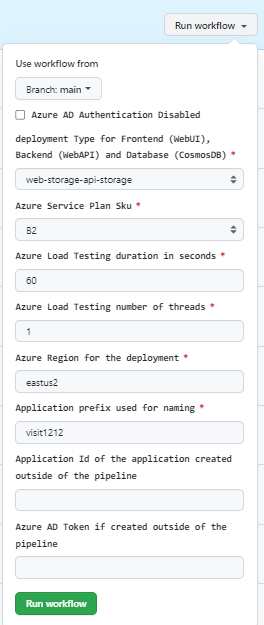
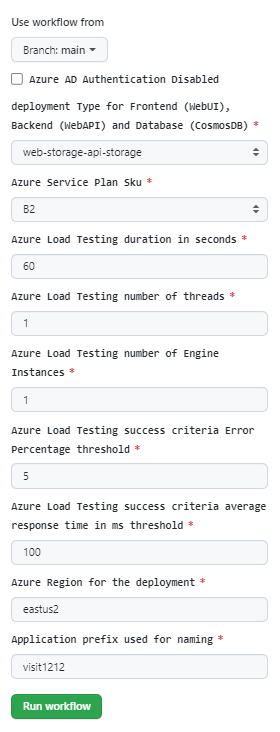
Add latest update

diff --git a/src/ts-web-app/html/index.html b/src/ts-web-app/html/index.html
@@ -12,10 +12,15 @@
   <link href="https://cdn.jsdelivr.net/npm/bootstrap@5.0.2/dist/css/bootstrap.min.css" rel="stylesheet" integrity="sha384-EVSTQN3/azprG1Anm3QDgpJLIm9Nao0Yz1ztcQTwFspd3yD65VohhpuuCOmLASjC" crossorigin="anonymous">    
   <link rel="stylesheet" href="https://cdn.jsdelivr.net/npm/bootstrap@4.0.0/dist/css/bootstrap.min.css" integrity="sha384-Gn5384xqQ1aoWXA+058RXPxPg6fy4IWvTNh0E263XmFcJlSAwiGgFAW/dAiS6JXm" crossorigin="anonymous">
 -->  
+<!--
   <link rel="stylesheet" href="https://cdn.jsdelivr.net/npm/bootstrap@4.6.1/dist/css/bootstrap.min.css">    
   <link rel="stylesheet" href="https://unpkg.com/jquery-resizable-columns@0.2.3/dist/jquery.resizableColumns.css">
   <link href="https://unpkg.com/bootstrap-table@1.19.1/dist/bootstrap-table.min.css" rel="stylesheet">
-  
+-->  
+<link rel="stylesheet" href="https://cdn.jsdelivr.net/npm/bootstrap@5.2.0/dist/css/bootstrap.min.css">    
+<link rel="stylesheet" href="https://unpkg.com/jquery-resizable-columns@0.2.3/dist/jquery.resizableColumns.css">
+<link href="https://unpkg.com/bootstrap-table@1.21.0/dist/bootstrap-table.min.css" rel="stylesheet">
+
   <link rel="stylesheet" href="dist/css/font-awesome.min.css">
   <link href="navmanager.css" rel="stylesheet"/>
   <link href="index.css" rel="stylesheet"/>
@@ -58,9 +63,14 @@
 </footer>  
 
 <script src="https://cdn.jsdelivr.net/npm/jquery@3.5.1/dist/jquery.slim.min.js" integrity="sha384-DfXdz2htPH0lsSSs5nCTpuj/zy4C+OGpamoFVy38MVBnE+IbbVYUew+OrCXaRkfj" crossorigin="anonymous"></script>
+<!--
 <script src="https://cdn.jsdelivr.net/npm/popper.js@1.16.1/dist/umd/popper.min.js" integrity="sha384-9/reFTGAW83EW2RDu2S0VKaIzap3H66lZH81PoYlFhbGU+6BZp6G7niu735Sk7lN" crossorigin="anonymous"></script>
 <script src="https://cdn.jsdelivr.net/npm/bootstrap@4.6.1/dist/js/bootstrap.min.js" integrity="sha384-VHvPCCyXqtD5DqJeNxl2dtTyhF78xXNXdkwX1CZeRusQfRKp+tA7hAShOK/B/fQ2" crossorigin="anonymous"></script>
 <script src="https://unpkg.com/bootstrap-table@1.19.1/dist/bootstrap-table.min.js"></script>
+-->
+<script src="https://cdn.jsdelivr.net/npm/@popperjs/core@2.11.5/dist/umd/popper.min.js" integrity="sha384-Xe+8cL9oJa6tN/veChSP7q+mnSPaj5Bcu9mPX5F5xIGE0DVittaqT5lorf0EI7Vk" crossorigin="anonymous"></script>
+<script src="https://cdn.jsdelivr.net/npm/bootstrap@5.2.0/dist/js/bootstrap.min.js" integrity="sha384-ODmDIVzN+pFdexxHEHFBQH3/9/vQ9uori45z4JjnFsRydbmQbmL5t1tQ0culUzyK" crossorigin="anonymous"></script>
+<script src="https://unpkg.com/bootstrap-table@1.21.0/dist/bootstrap-table.min.js"></script>
 
 <!-- Bootstrap table localization strings -->
 <script src="dist/js/bootstrap-table-en-US.min.js"></script>
@@ -70,8 +80,11 @@
 <script src="dist/js/bootstrap-table-it-IT.min.js"></script>
 <script src="dist/js/bootstrap-table-es-SP.min.js"></script>
 
-
+<!--
 <script src="https://unpkg.com/bootstrap-table@1.19.1/dist/extensions/resizable/bootstrap-table-resizable.min.js"></script>
+-->
+<script src="https://unpkg.com/bootstrap-table@1.21.0/dist/extensions/resizable/bootstrap-table-resizable.min.js"></script>
+
 <script src="https://unpkg.com/jquery-resizable-columns@0.2.3/dist/jquery.resizableColumns.min.js"></script>
 <script src="https://alcdn.msauth.net/browser/2.3.0/js/msal-browser.min.js" integrity="sha384-o+Sncs5XJ3NEAeriM/FV8YGZrh7mZk4GfNutRTbYjsDNJxb7caCLeqiDabistgwW" crossorigin="anonymous" type="text/javascript"></script>      
 

diff --git a/src/ts-web-app/html/navmanager.css b/src/ts-web-app/html/navmanager.css
@@ -1006,8 +1006,13 @@ footer p {
 .mini-table-header{
   background-color: var(--mini-button-bg-color);
   color: var(--mini-button-text-color)
-
 }
+table.table tr th {
+  background-color:var(--mini-button-bg-color) !important; 
+  color:var(--mini-button-text-color) !important;
+}
+
+
 /*
 .table-fixed tbody {
   display:block;

diff --git a/README.md b/README.md
@@ -825,11 +825,11 @@ In order to create this pipeline, follow the steps below:
 Check or not the box "Azure AD Authentication Disabled" to support Azure AD Authentication.  
 Select the Web App infrastructure you wants to deploy: 'web-storage-api-storage', 'web-app-api-storage', 'web-app-api-cosmosdb'.  
 Select the App Service Plan sku.  
-Enter the duration of the test in seconds.  
-Enter the number of threads for the load testing.  
-Enter the number of engine instances for the load testing.  
-Enter the error percentage threshold for the load testing.  
-Enter the average response time in milliseonds threshold for the load testing.  
+Enter the duration of the test in seconds (60 seconds by default) 
+Enter the number of threads for the load testing (1 by default).  
+Enter the number of engine instances for the load testing (1 by default).  
+Enter the error percentage threshold for the load testing (5 by default).  
+Enter the average response time in milliseonds threshold for the load testing (100 by default).  
 
     ![azure-devops-pipeline-09](./docs/img/azure-devops-pipeline-09.png)
 
@@ -913,11 +913,12 @@ The name of this new pipeline can be "eventhub-load-testing-pipeline".
 
 To run the new pipeline, on the dialog box 'Run pipeline', select the 'main' branch.
 Select the EventHubs Sku "Basic", "Standard", "Premium" ("Standard" by default)  
-Enter the duration of the test in seconds.
-Enter the number of threads for the load testing.  
-Enter the number of engine instances for the load testing.  
-Enter the error percentage threshold for the load testing.  
-Enter the average response time in milliseonds threshold for the load testing.  
+Enter the duration of the test in seconds (60 seconds by default). 
+Enter the number of threads for the load testing (1 by default).  
+Enter the number of engine instances for the load testing (1 by default).  
+Enter the error percentage threshold for the load testing (5 by default).  
+Enter the average response time in milliseonds threshold for the load testing (100 by default).  
+  
 
 Then click on the button "Run"
 
@@ -949,11 +950,12 @@ The name of this new pipeline can be "eventhub-asa-load-testing-pipeline".
 
 To run the new pipeline, on the dialog box 'Run pipeline', select the 'main' branch.
 Select the EventHubs Sku "Basic", "Standard", "Premium" ("Standard" by default)  
-Enter the duration of the test in seconds.
-Enter the number of threads for the load testing.  
-Enter the number of engine instances for the load testing.  
-Enter the error percentage threshold for the load testing.  
-Enter the average response time in milliseonds threshold for the load testing.  
+Enter the duration of the test in seconds (60 seconds by default) 
+Enter the number of threads for the load testing (1 by default).  
+Enter the number of engine instances for the load testing (1 by default).  
+Enter the error percentage threshold for the load testing (5 by default).  
+Enter the average response time in milliseonds threshold for the load testing (100 by default).  
+
 Then click on the button "Run"
 
 ![azure-devops-pipeline-eventhub-asa-02](./docs/img/azure-devops-pipeline-eventhub-02.png)
@@ -1008,11 +1010,12 @@ The name of this new pipeline can be "eventhub-firewall-load-testing-pipeline".
 
 To run the new pipeline, on the dialog box 'Run pipeline', select the 'main' branch.
 Select the EventHubs Sku "Basic", "Standard", "Premium" ("Standard" by default)  
-Enter the duration of the test in seconds.
-Enter the number of threads for the load testing.  
-Enter the number of engine instances for the load testing.  
-Enter the error percentage threshold for the load testing.  
-Enter the average response time in milliseonds threshold for the load testing.  
+Enter the duration of the test in seconds (60 seconds by default) 
+Enter the number of threads for the load testing (1 by default).  
+Enter the number of engine instances for the load testing (1 by default).  
+Enter the error percentage threshold for the load testing (5 by default).  
+Enter the average response time in milliseonds threshold for the load testing (100 by default).  
+
 Then click on the button "Run"
 
 ![azure-devops-pipeline-eventhub-02](./docs/img/azure-devops-pipeline-eventhub-02.png)
@@ -1075,12 +1078,15 @@ In order to activate this pipeline, follow the steps below:
    - Deployment Type: web-storage-api-storage by default
    - Azure Service Plan Sku: B2 by default
    - Load Testing duration: 60 seconds by default
-   - Load Testing number of threads: 1 by default
+   - Load Testing number of threads: 1 by default  
+   - Load Testing number of engine instances: 1 by default  
+   - Load Testing error percentage threshold: 5 by default  
+   - Load Testing average response time in milliseonds threshold: 100 by default  
    - Azure Region: 'eastus2' by default
    - Application prefix: visit1212 by default
-   - Application Id: '' by default, you can enter the appId of an application created manually with iactool.sh.  
-   - Azure AD Token: '' by default, you can enter the Azure AD Token created or captured manually.
-
+  
+  As Github Action only supports maximum 10 inputs 'Application Id' and 'Azure AD Token' are set ''.
+  
     ![github-action-web-app-start](./docs/img/github-action-web-app-start.png)
 
 5. After few minutes, the pipeline has been completed and you can download the load testing artifacts.
@@ -1187,7 +1193,7 @@ In order to activate this pipeline, follow the steps below:
    - Azure Region: 'eastus2' by default
    - Application prefix: visit1212 by default
 
-   ![github-action-eventhub-start](./docs/img/github-action-eventhub-start.png)
+   ![github-action-eventhub-start](./docs/img/github-action-eventhub-firewall-start.png)
 
 5. After few minutes, the pipeline has been completed and you can download the load testing artifacts.
 
@@ -1692,6 +1698,5 @@ This project welcomes contributions and suggestions. Further information about c
 
 Below a list of possible improvements:  
 
-1. Add the number of engine instances, the response time in ms and the error percentage in the pipeline input parameters
-2. Add Unit tests for Web UI
-3. Add Unit tests for Web API
+1. Add Unit tests for Web UI
+2. Add Unit tests for Web API
